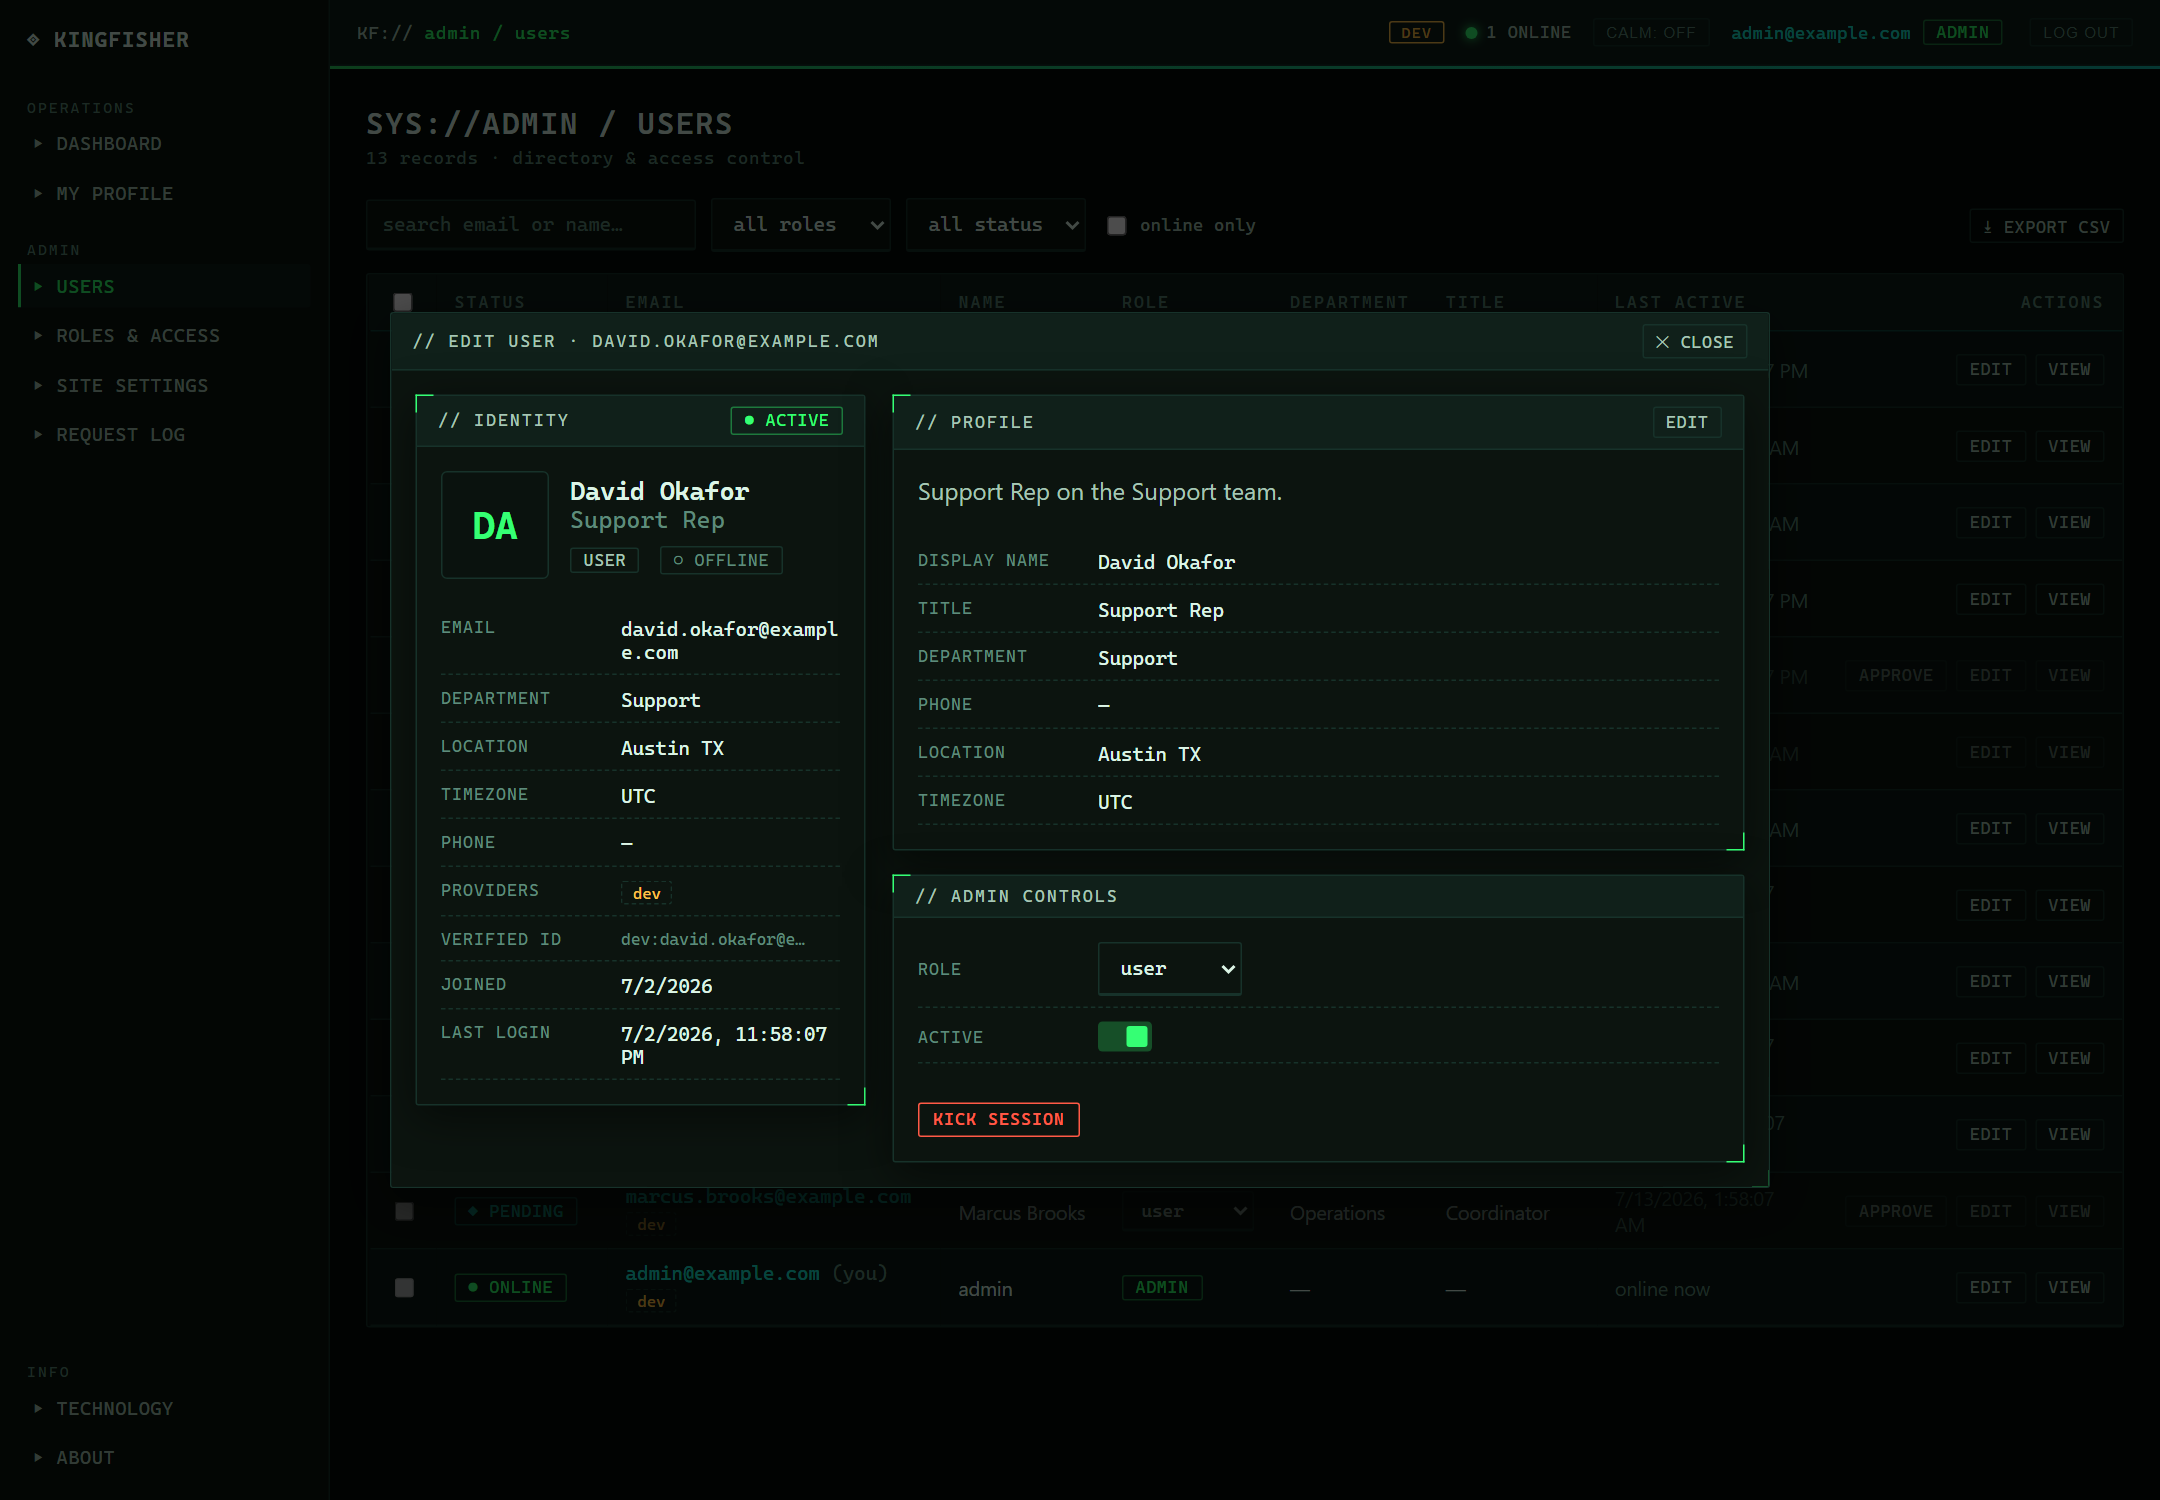
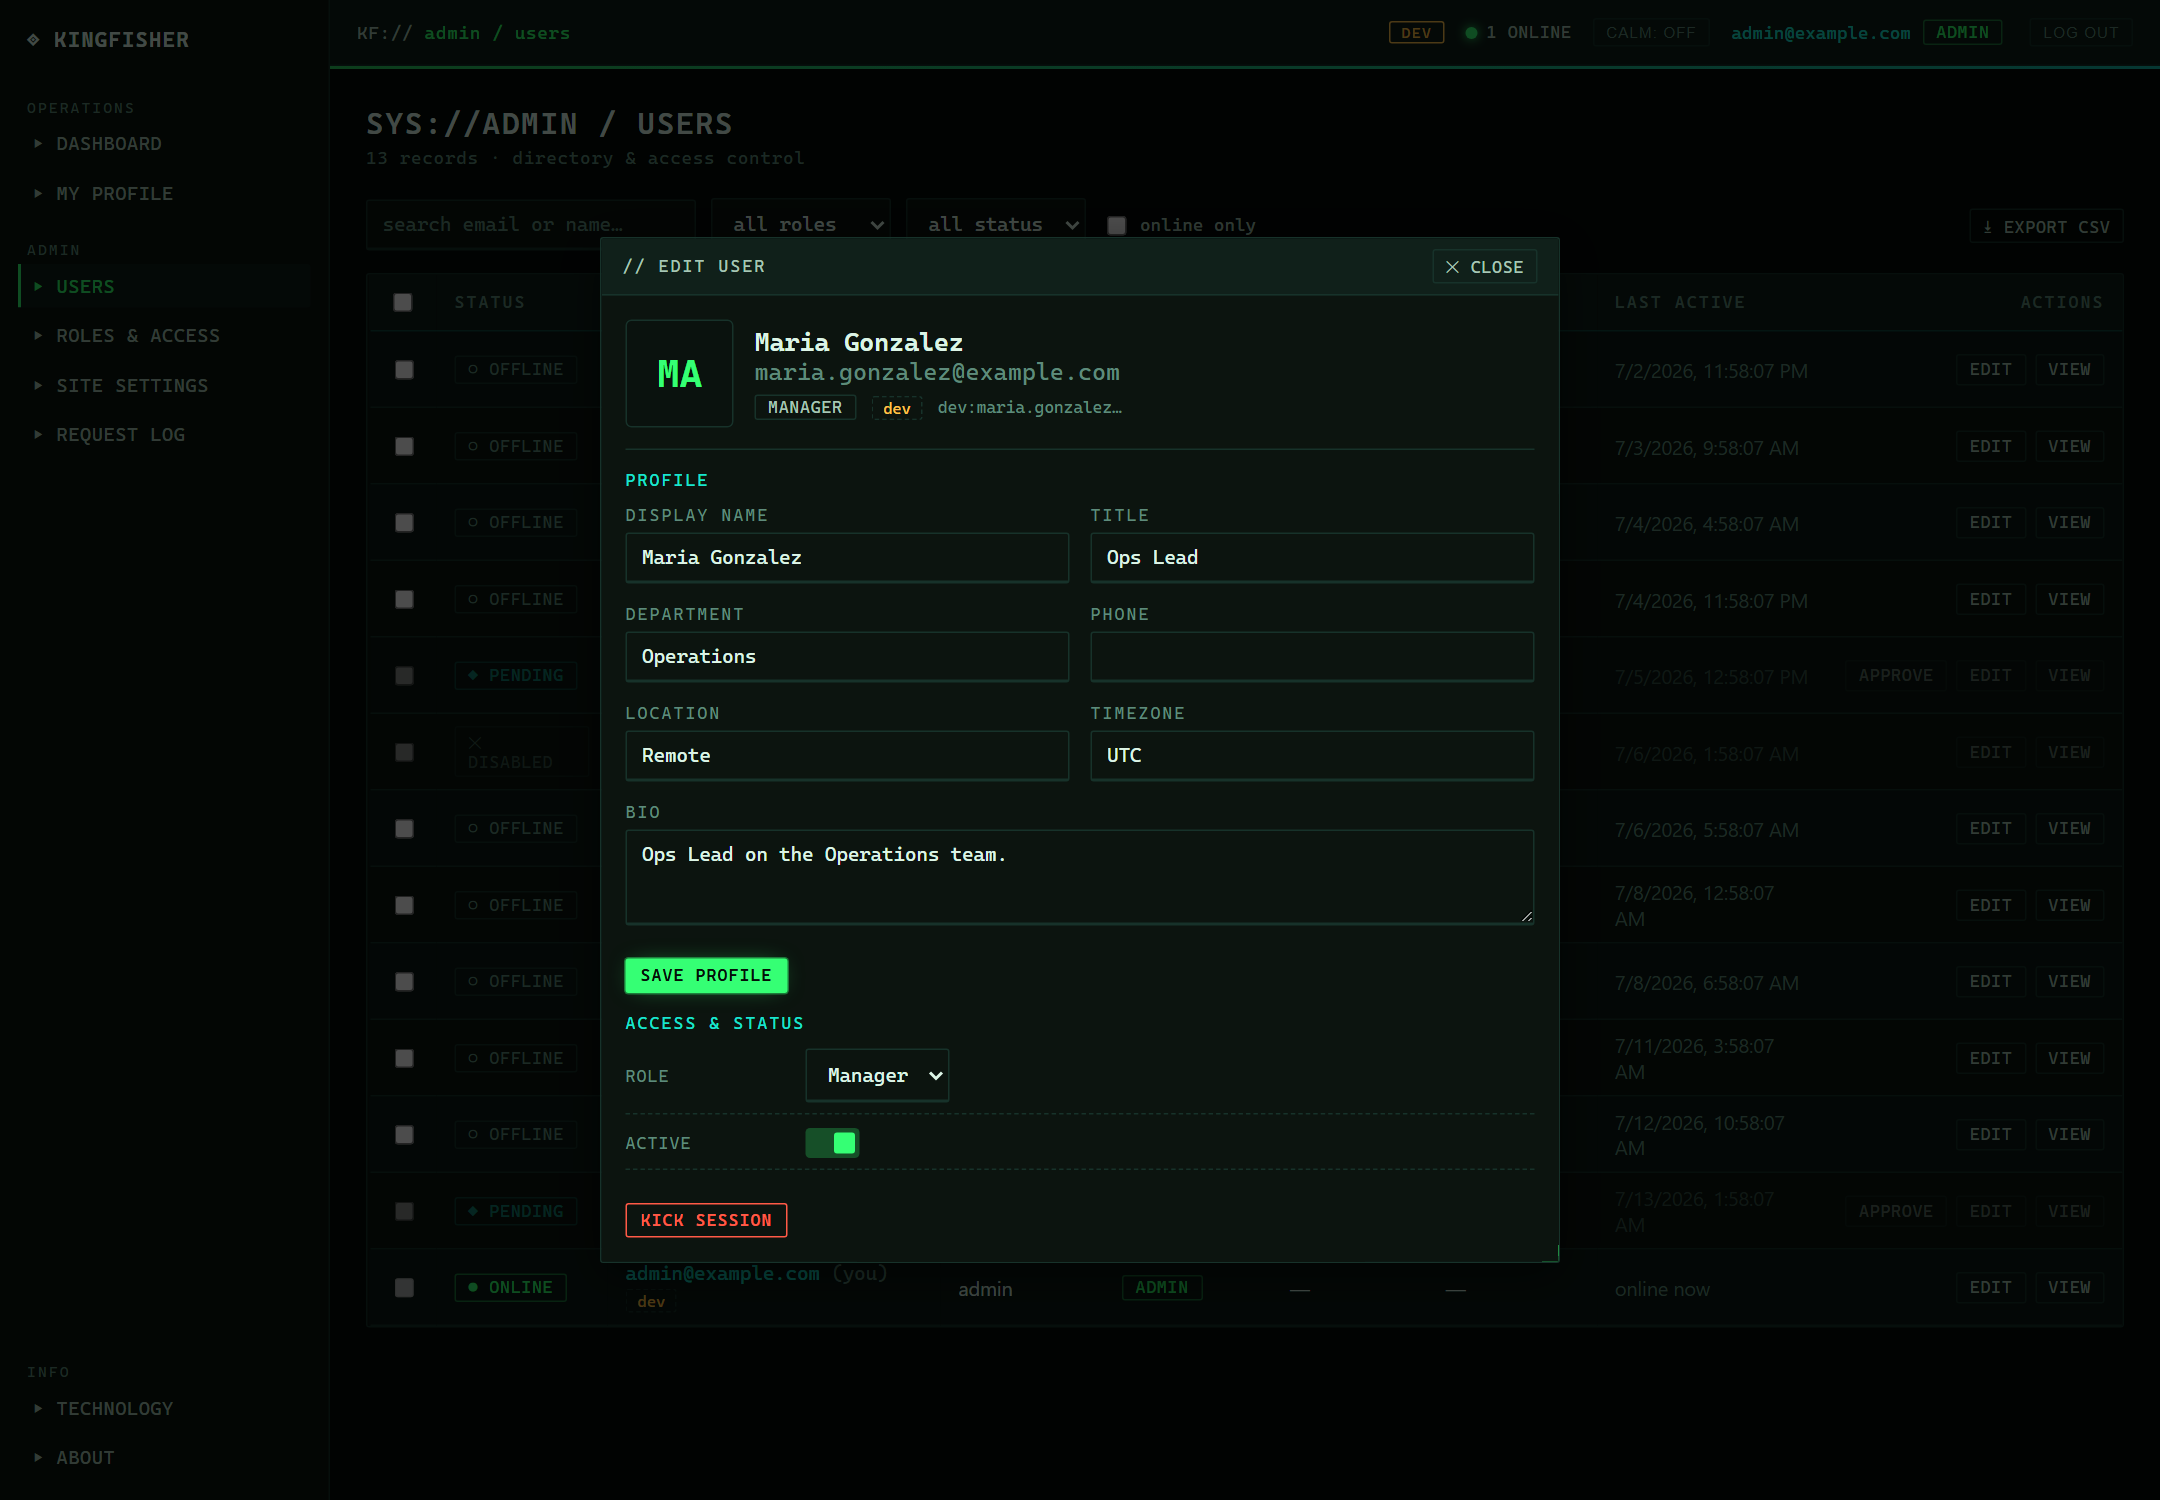
Replace the user-edit modal with a focused, pre-filled editor
The inline Edit opened the full two-panel profile view inside a wide modal: the identity block
was read-only, the Edit control sat in a separate panel, fields didn't pre-fill, and the
two-column grid produced an awkward scrollbar.

- New UserEditModal: single 640px column, opens with every field already populated, edits the
  profile inline (email + verified provider id stay read-only by design — identity is keyed to the
  immutable provider subject). Access & status controls (role, active, approve, kick) below, each
  permission-gated. Labels are now associated via htmlFor/id.
- AdminUsersPage uses it instead of embedding <UserProfile>; drop the now-unused onChange prop
  from UserProfile and the unused .modal-panel.wide rule.
- Refresh the README edit-modal screenshot.

Verified: tsc + eslint + vite build; modal auto-populate and single-column layout confirmed in-browser.

diff --git a/frontend/src/components/UserEditModal.tsx b/frontend/src/components/UserEditModal.tsx
@@ -1,0 +1,249 @@
+import { useState } from "react";
+
+import { api, ApiError } from "../api/client";
+import { useAuth } from "../auth/AuthContext";
+import { ProviderBadge, RoleBadge } from "./badges";
+import type { ProfileUpdate, Role, User } from "../types";
+
+const FIELDS: [keyof ProfileUpdate, string][] = [
+  ["display_name", "Display name"],
+  ["title", "Title"],
+  ["department", "Department"],
+  ["phone", "Phone"],
+  ["location", "Location"],
+  ["timezone", "Timezone"],
+];
+
+/**
+ * Focused, single-column editor for a user. Opens with every field pre-populated. Email and the
+ * verified provider ID are shown read-only in the header — identity is keyed to the immutable
+ * provider subject, so those are intentionally not editable.
+ */
+export function UserEditModal({
+  user: initial,
+  roles,
+  onClose,
+  onChange,
+}: {
+  user: User;
+  roles: Role[];
+  onClose: () => void;
+  onChange: (u: User) => void;
+}) {
+  const { user: me } = useAuth();
+  const [user, setUser] = useState<User>(initial);
+  const [draft, setDraft] = useState<ProfileUpdate>({
+    display_name: initial.display_name,
+    title: initial.title,
+    department: initial.department,
+    phone: initial.phone,
+    location: initial.location,
+    timezone: initial.timezone,
+    bio: initial.bio,
+  });
+  const [banner, setBanner] = useState<{ msg: string; ok?: boolean } | null>(null);
+  const [saving, setSaving] = useState(false);
+
+  const isSelf = me?.id === user.id;
+  const canManage = !!me?.permissions.includes("users.manage");
+  const canEditProfile = isSelf || canManage;
+  const canPickRole = canManage && !isSelf && !!me?.permissions.includes("roles.manage");
+  const canToggleActive = canManage && !isSelf;
+  const canKick = !isSelf && !!me?.permissions.includes("presence.kick");
+  const hasAdmin = canPickRole || canToggleActive || canKick || (canManage && user.status === "pending");
+
+  const push = (u: User) => {
+    setUser(u);
+    onChange(u);
+  };
+
+  const saveProfile = async () => {
+    setSaving(true);
+    setBanner(null);
+    try {
+      push(await api.patch<User>(`/api/users/${user.id}/profile`, draft));
+      setBanner({ msg: "Profile saved.", ok: true });
+    } catch (e) {
+      setBanner({ msg: e instanceof ApiError ? e.message : "Save failed" });
+    } finally {
+      setSaving(false);
+    }
+  };
+
+  const action = async (fn: () => Promise<User>, ok: string) => {
+    setBanner(null);
+    try {
+      push(await fn());
+      setBanner({ msg: ok, ok: true });
+    } catch (e) {
+      setBanner({ msg: e instanceof ApiError ? e.message : "Action failed" });
+    }
+  };
+
+  const initials = (user.display_name || user.email).slice(0, 2).toUpperCase();
+
+  return (
+    <div className="modal" onClick={onClose}>
+      <section
+        className="panel panel--brackets modal-panel edit-modal"
+        onClick={(e) => e.stopPropagation()}
+      >
+        <div className="panel-header">
+          // EDIT USER
+          <span className="spacer" />
+          <button className="icon-btn" onClick={onClose}>
+            ✕ close
+          </button>
+        </div>
+        <div className="panel-body">
+          <div className="edit-id-head">
+            <div className="profile-avatar">{initials}</div>
+            <div>
+              <div className="profile-name">{user.display_name ?? user.email}</div>
+              <div className="muted small">{user.email}</div>
+              <div className="edit-id-badges">
+                <RoleBadge role={user.role} />
+                {user.auth_providers.map((p) => (
+                  <ProviderBadge key={p} provider={p} />
+                ))}
+                {user.identities.map((i) => (
+                  <span key={i.provider + i.subject} className="mono-id" title={i.subject}>
+                    {i.provider}:{i.subject.length > 16 ? `${i.subject.slice(0, 14)}…` : i.subject}
+                  </span>
+                ))}
+              </div>
+            </div>
+          </div>
+
+          {banner && (
+            <div className={`banner ${banner.ok ? "ok" : ""}`} role="alert">
+              {banner.ok ? "" : "ERR: "}
+              {banner.msg}
+              <span className="spacer" />
+              <button onClick={() => setBanner(null)}>✕</button>
+            </div>
+          )}
+
+          <div className="edit-section">
+            <div className="edit-section-title">Profile</div>
+            <div className="form-grid">
+              {FIELDS.map(([k, label]) => (
+                <div className="field" key={k}>
+                  <label className="field-label" htmlFor={`edit-${k}`}>
+                    {label}
+                  </label>
+                  <input
+                    id={`edit-${k}`}
+                    className="field-input"
+                    value={(draft[k] as string) ?? ""}
+                    disabled={!canEditProfile}
+                    onChange={(e) => setDraft({ ...draft, [k]: e.target.value })}
+                  />
+                </div>
+              ))}
+              <div className="field full">
+                <label className="field-label" htmlFor="edit-bio">
+                  Bio
+                </label>
+                <textarea
+                  id="edit-bio"
+                  className="field-input"
+                  rows={3}
+                  value={draft.bio ?? ""}
+                  disabled={!canEditProfile}
+                  onChange={(e) => setDraft({ ...draft, bio: e.target.value })}
+                />
+              </div>
+            </div>
+            {canEditProfile && (
+              <div className="profile-actions">
+                <button className="btn btn-primary btn-sm" onClick={saveProfile} disabled={saving}>
+                  {saving ? "Saving…" : "Save profile"}
+                </button>
+              </div>
+            )}
+          </div>
+
+          {hasAdmin && (
+            <div className="edit-section">
+              <div className="edit-section-title">Access &amp; status</div>
+              <div className="kv">
+                {canPickRole && (
+                  <div className="kv-row" style={{ alignItems: "center" }}>
+                    <span className="k">Role</span>
+                    <span className="v">
+                      <select
+                        className="field-input"
+                        value={user.role_id}
+                        onChange={(e) =>
+                          action(
+                            () =>
+                              api.patch<User>(`/api/users/${user.id}/role`, {
+                                role_id: Number(e.target.value),
+                              }),
+                            "Role updated.",
+                          )
+                        }
+                      >
+                        {roles.map((r) => (
+                          <option key={r.id} value={r.id}>
+                            {r.name}
+                          </option>
+                        ))}
+                      </select>
+                    </span>
+                  </div>
+                )}
+                {canToggleActive && (
+                  <div className="kv-row" style={{ alignItems: "center" }}>
+                    <span className="k">Active</span>
+                    <span className="v">
+                      <label className="switch">
+                        <input
+                          type="checkbox"
+                          checked={user.is_active}
+                          onChange={(e) =>
+                            action(
+                              () =>
+                                api.patch<User>(`/api/users/${user.id}/status`, {
+                                  is_active: e.target.checked,
+                                }),
+                              e.target.checked ? "Activated." : "Deactivated.",
+                            )
+                          }
+                        />
+                        <span className="slider" />
+                      </label>
+                    </span>
+                  </div>
+                )}
+              </div>
+              <div className="profile-actions">
+                {canManage && user.status === "pending" && (
+                  <button
+                    className="btn btn-primary btn-sm"
+                    onClick={() =>
+                      action(() => api.post<User>(`/api/users/${user.id}/approve`), "Approved.")
+                    }
+                  >
+                    Approve sign-up
+                  </button>
+                )}
+                {canKick && (
+                  <button
+                    className="btn btn-danger btn-sm"
+                    onClick={() =>
+                      action(() => api.post<User>(`/api/users/${user.id}/kick`), "Session revoked.")
+                    }
+                  >
+                    Kick session
+                  </button>
+                )}
+              </div>
+            </div>
+          )}
+        </div>
+      </section>
+    </div>
+  );
+}

diff --git a/frontend/src/pages/AdminUsersPage.tsx b/frontend/src/pages/AdminUsersPage.tsx
@@ -4,7 +4,7 @@ import { Link } from "react-router-dom";
 import { api, ApiError } from "../api/client";
 import { useAuth } from "../auth/AuthContext";
 import { ProviderBadge, RoleBadge } from "../components/badges";
-import { UserProfile } from "../components/UserProfile";
+import { UserEditModal } from "../components/UserEditModal";
 import type { Role, User, UserList } from "../types";
 
 const PAGE_SIZE = 25;
@@ -329,21 +329,12 @@ export function AdminUsersPage() {
       )}
 
       {editing && (
-        <div className="modal" onClick={() => setEditing(null)}>
-          <section
-            className="panel panel--brackets modal-panel wide"
-            onClick={(e) => e.stopPropagation()}
-          >
-            <div className="panel-header">
-              // EDIT USER · {editing.email}
-              <span className="spacer" />
-              <button className="icon-btn" onClick={() => setEditing(null)}>✕ close</button>
-            </div>
-            <div className="panel-body">
-              <UserProfile user={editing} onChange={replace} />
-            </div>
-          </section>
-        </div>
+        <UserEditModal
+          user={editing}
+          roles={roles}
+          onClose={() => setEditing(null)}
+          onChange={replace}
+        />
       )}
     </div>
   );

diff --git a/frontend/src/components/UserProfile.tsx b/frontend/src/components/UserProfile.tsx
@@ -26,13 +26,7 @@ function StatusChip({ status }: { status: string }) {
   return <span className={`status-pill ${cls}`}>{glyph} {status}</span>;
 }
 
-export function UserProfile({
-  user: initial,
-  onChange,
-}: {
-  user: User;
-  onChange?: (u: User) => void;
-}) {
+export function UserProfile({ user: initial }: { user: User }) {
   const { user: me, setUser } = useAuth();
   const [user, setLocal] = useState<User>(initial);
   const [banner, setBanner] = useState<{ msg: string; ok?: boolean } | null>(null);
@@ -56,7 +50,6 @@ export function UserProfile({
   const apply = (u: User) => {
     setLocal(u);
     if (isSelf) setUser(u); // keep the global session in sync when editing yourself
-    onChange?.(u); // let a host (e.g. the directory table) reflect the change
   };
 
   const startEdit = () => {

diff --git a/frontend/src/index.css b/frontend/src/index.css
@@ -1352,8 +1352,38 @@ td select.field-input {
   max-height: 88vh;
   overflow: auto;
 }
-.modal-panel.wide {
-  width: 920px;
+/* ---- focused user editor ---- */
+.modal-panel.edit-modal {
+  width: 640px;
+}
+.edit-id-head {
+  display: flex;
+  gap: 14px;
+  align-items: center;
+  padding-bottom: 14px;
+  border-bottom: 1px solid var(--border);
+}
+.edit-id-badges {
+  margin-top: 6px;
+  display: flex;
+  gap: 6px;
+  align-items: center;
+  flex-wrap: wrap;
+}
+.edit-section {
+  display: flex;
+  flex-direction: column;
+  gap: 10px;
+}
+.edit-section-title {
+  text-transform: uppercase;
+  letter-spacing: var(--track-label);
+  font-size: 11px;
+  color: var(--teal);
+}
+.field-input:disabled {
+  opacity: 0.55;
+  cursor: not-allowed;
 }
 .modal-panel .panel-body {
   display: flex;
